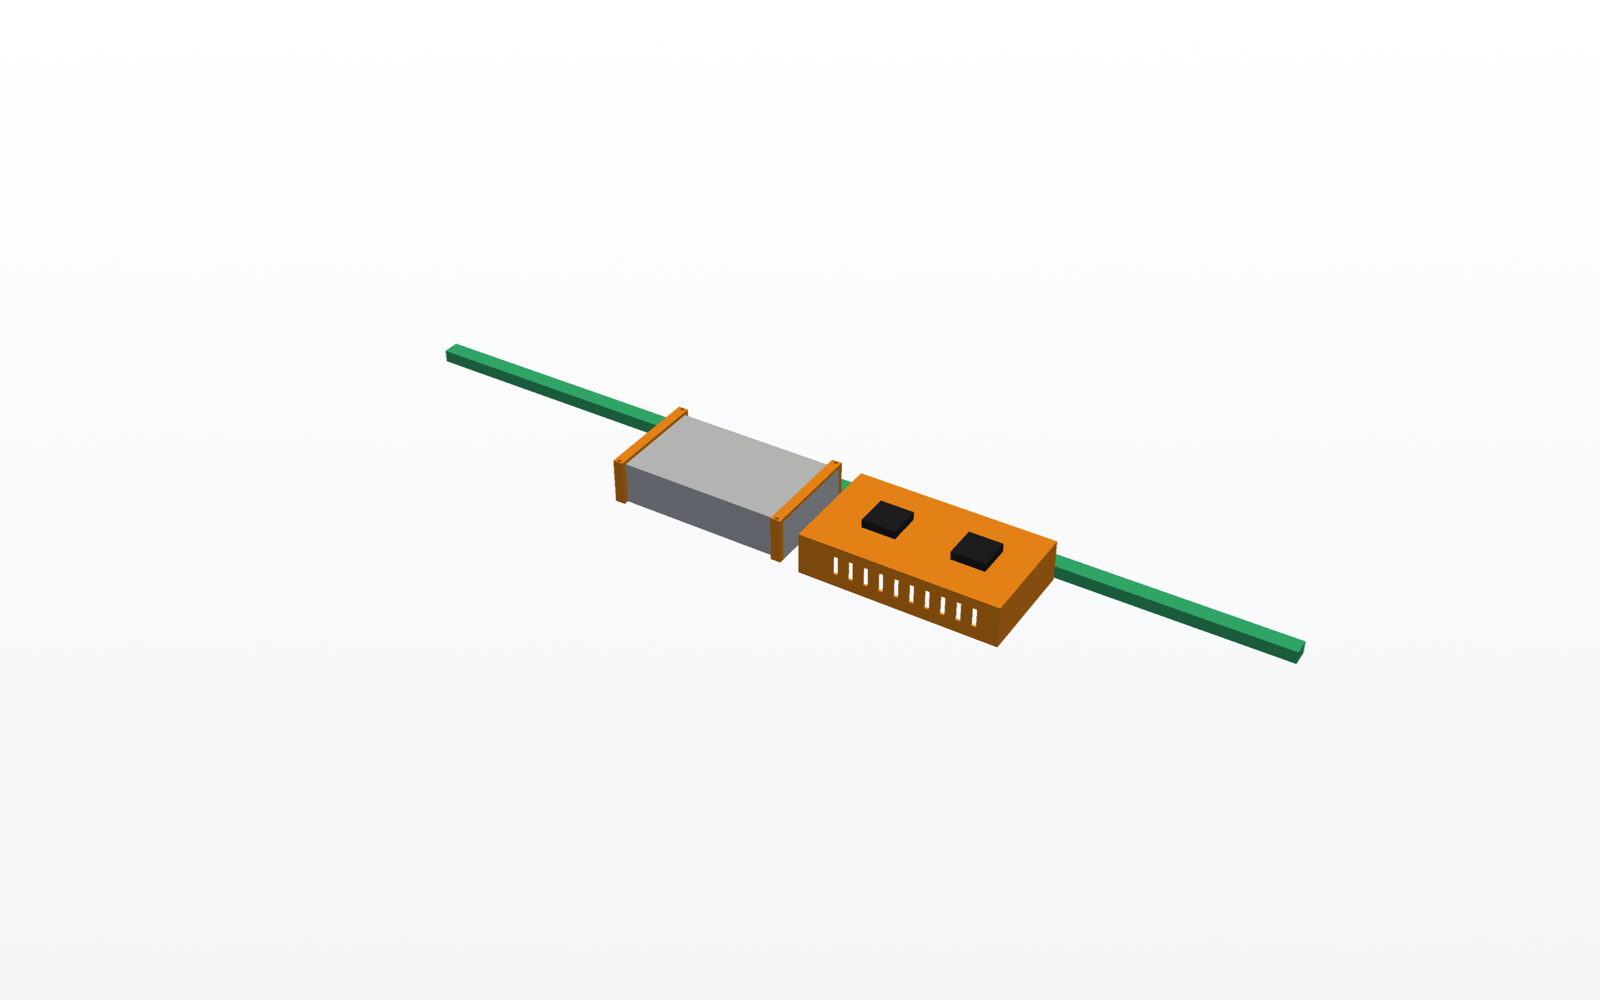
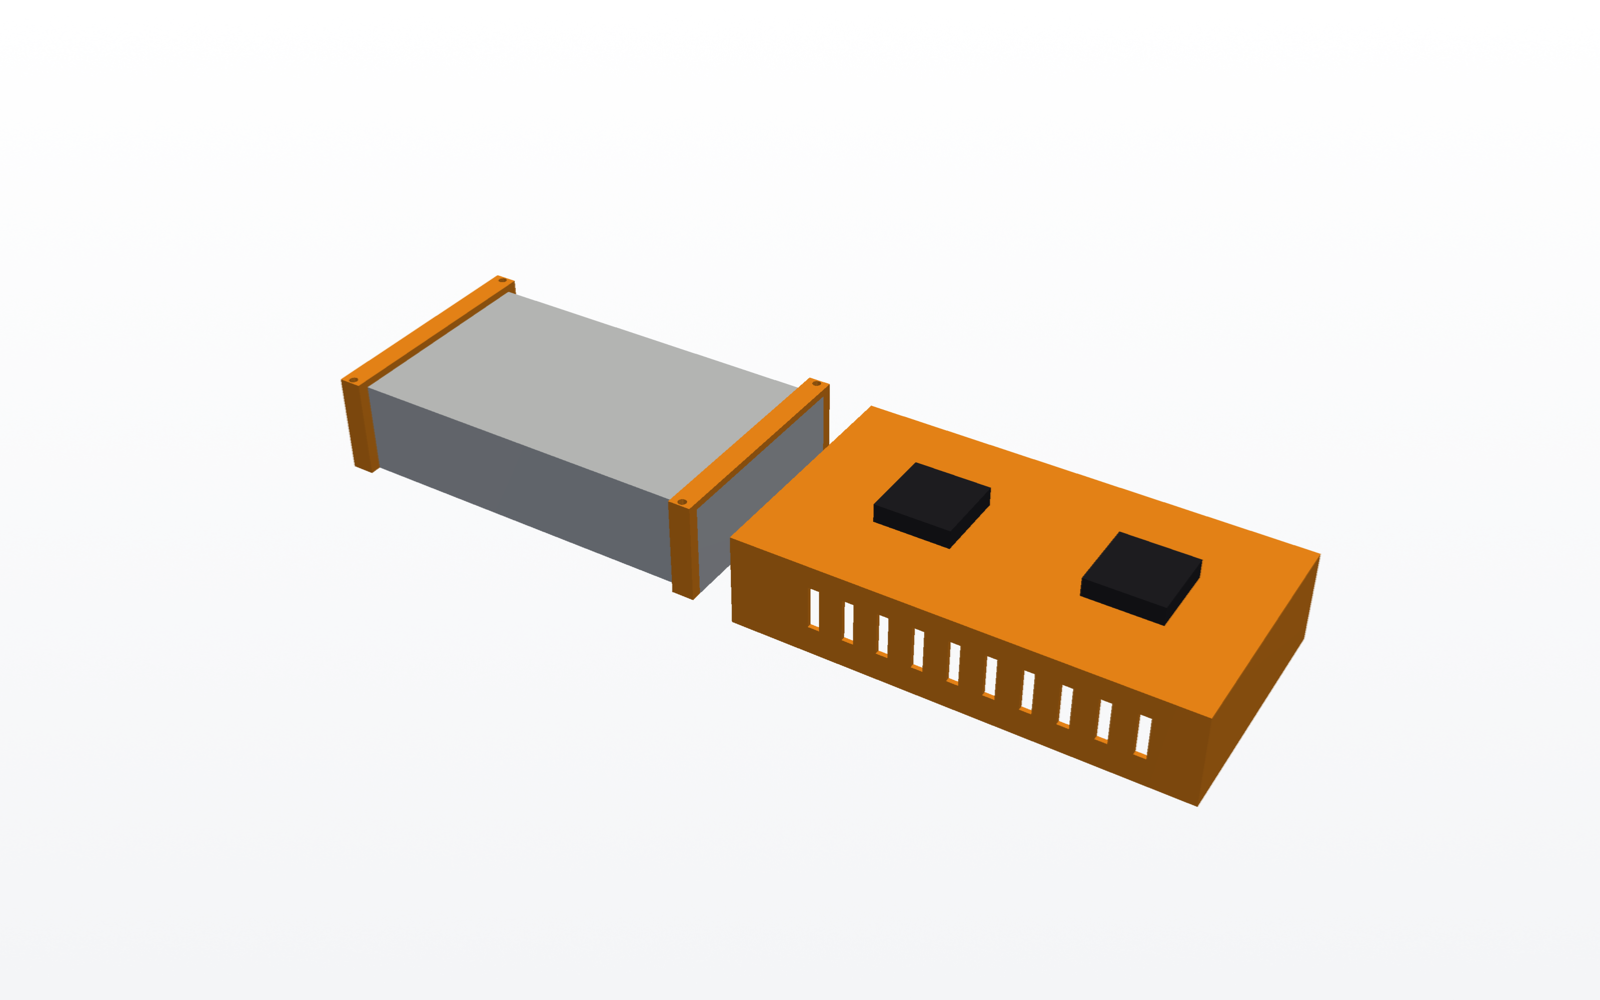
Render de la caja de electrónica más cercano

Changed region(s): [[0.1875, 0.279, 0.8438, 0.806]]

diff --git a/cad/render_pv.py b/cad/render_pv.py
@@ -43,7 +43,7 @@ VIEWS = {
                            only=("tinta_perfil", "tinta_bandeja", "tinta_deposito", "tinta_agitador")),
     "electronica": dict(direction=(-0.8, 1.3, 1.1), zoom=1.05,
                         only=("electronica_caja", "electronica_fuente", "electronica_brida",
-                              "electronica_ventilador", "canaleta_trasera")),
+                              "electronica_ventilador")),
     "electronica_interior": dict(direction=(-0.6, 1.2, 1.4), zoom=1.1,
                                  only=("electronica_placa_skr", "electronica_raspberry", "electronica_pico",
                                        "electronica_conversor", "electronica_fuente", "electronica_brida")),
